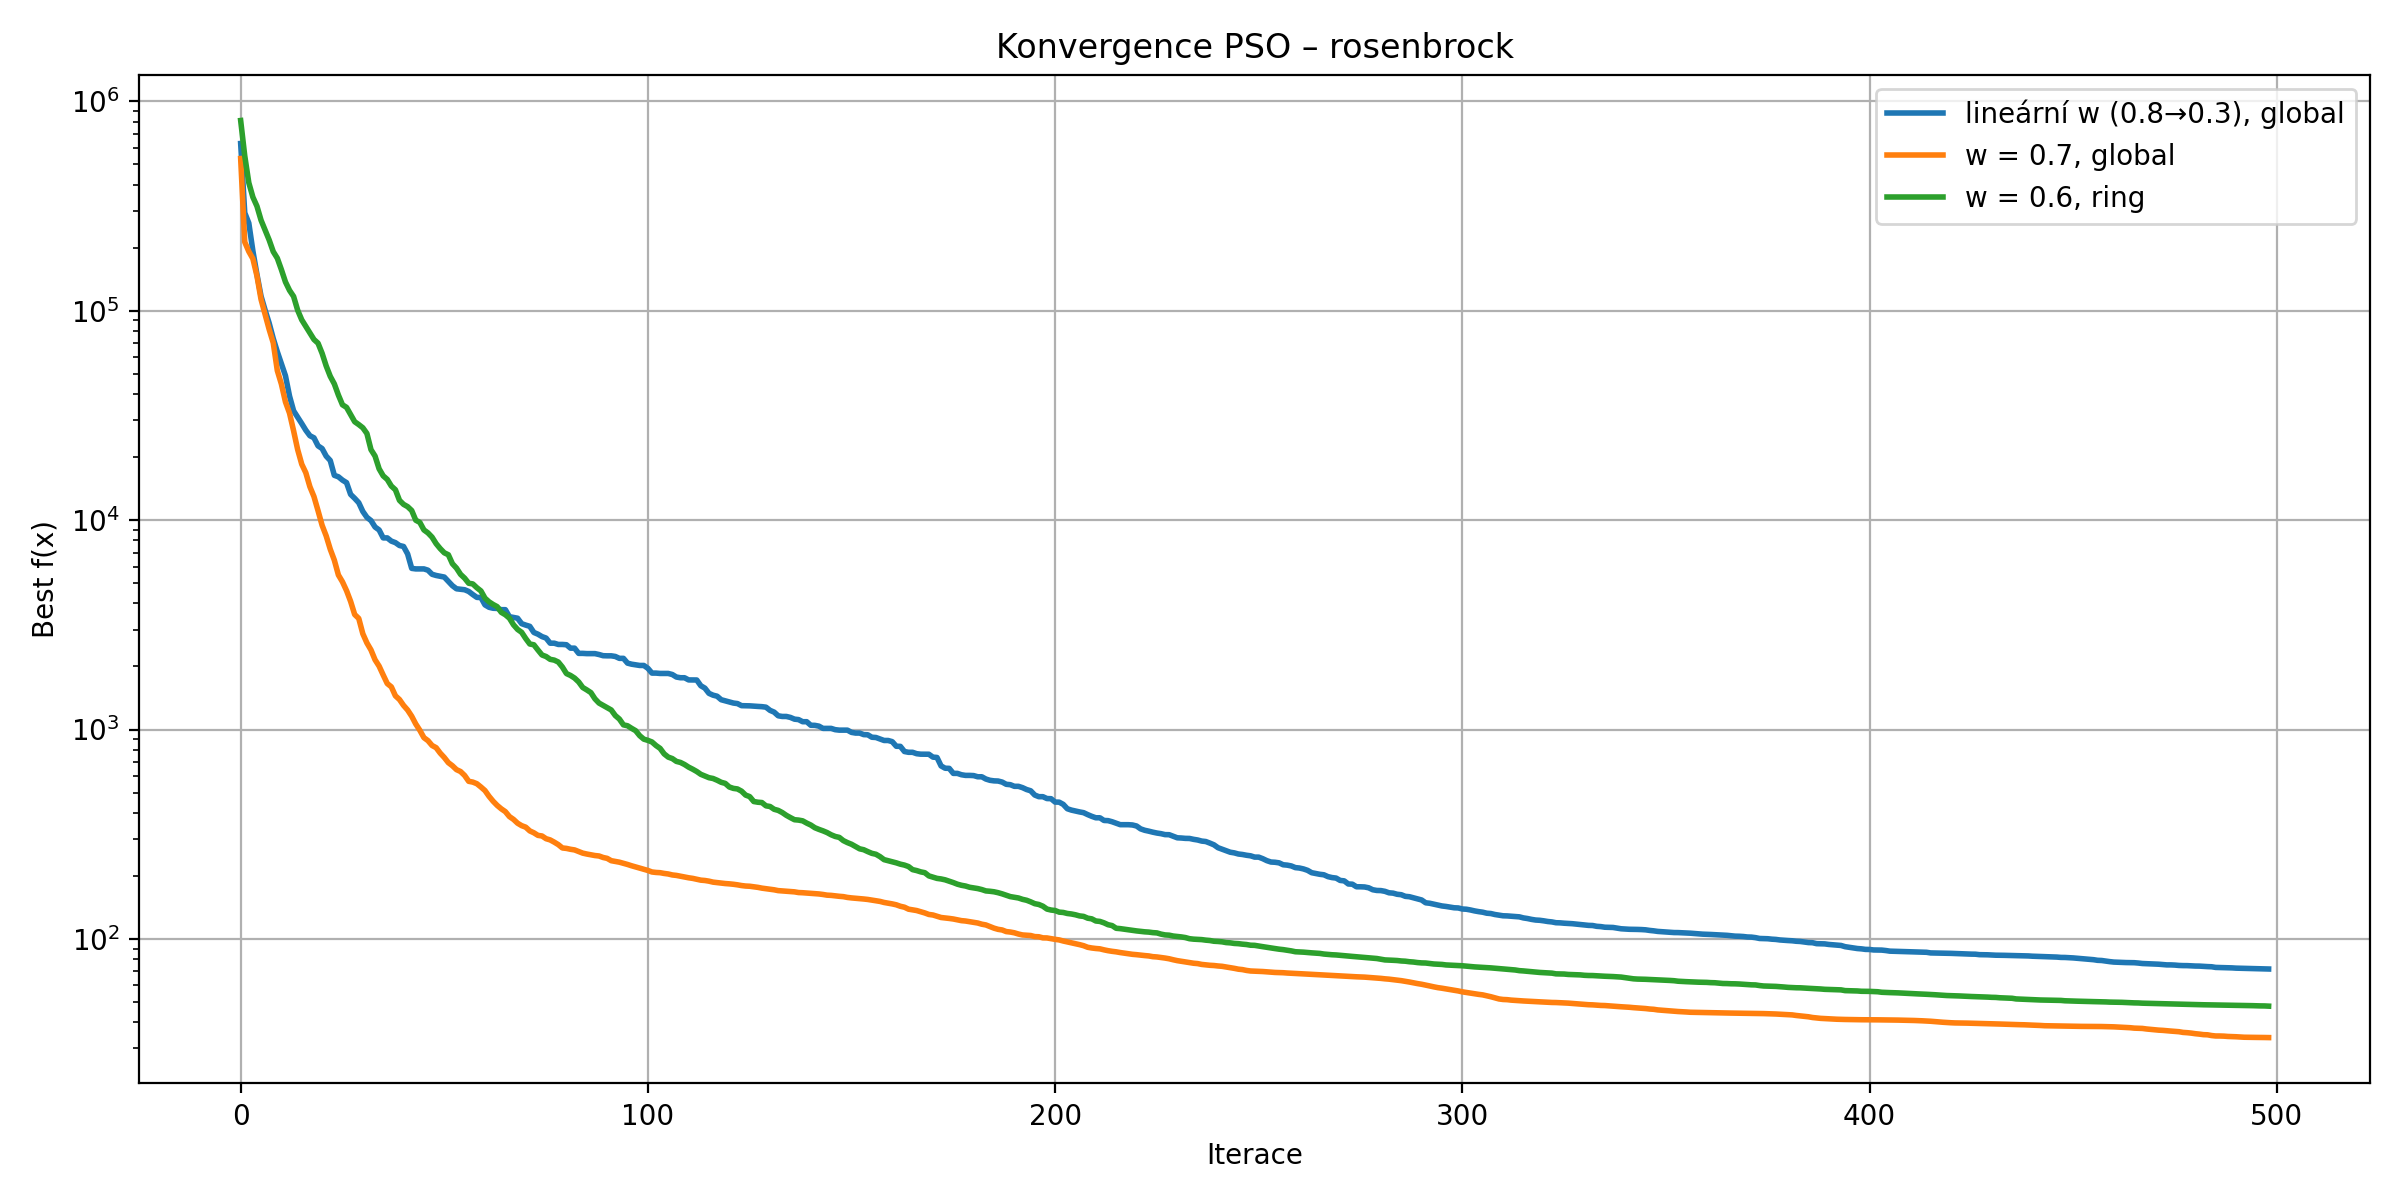
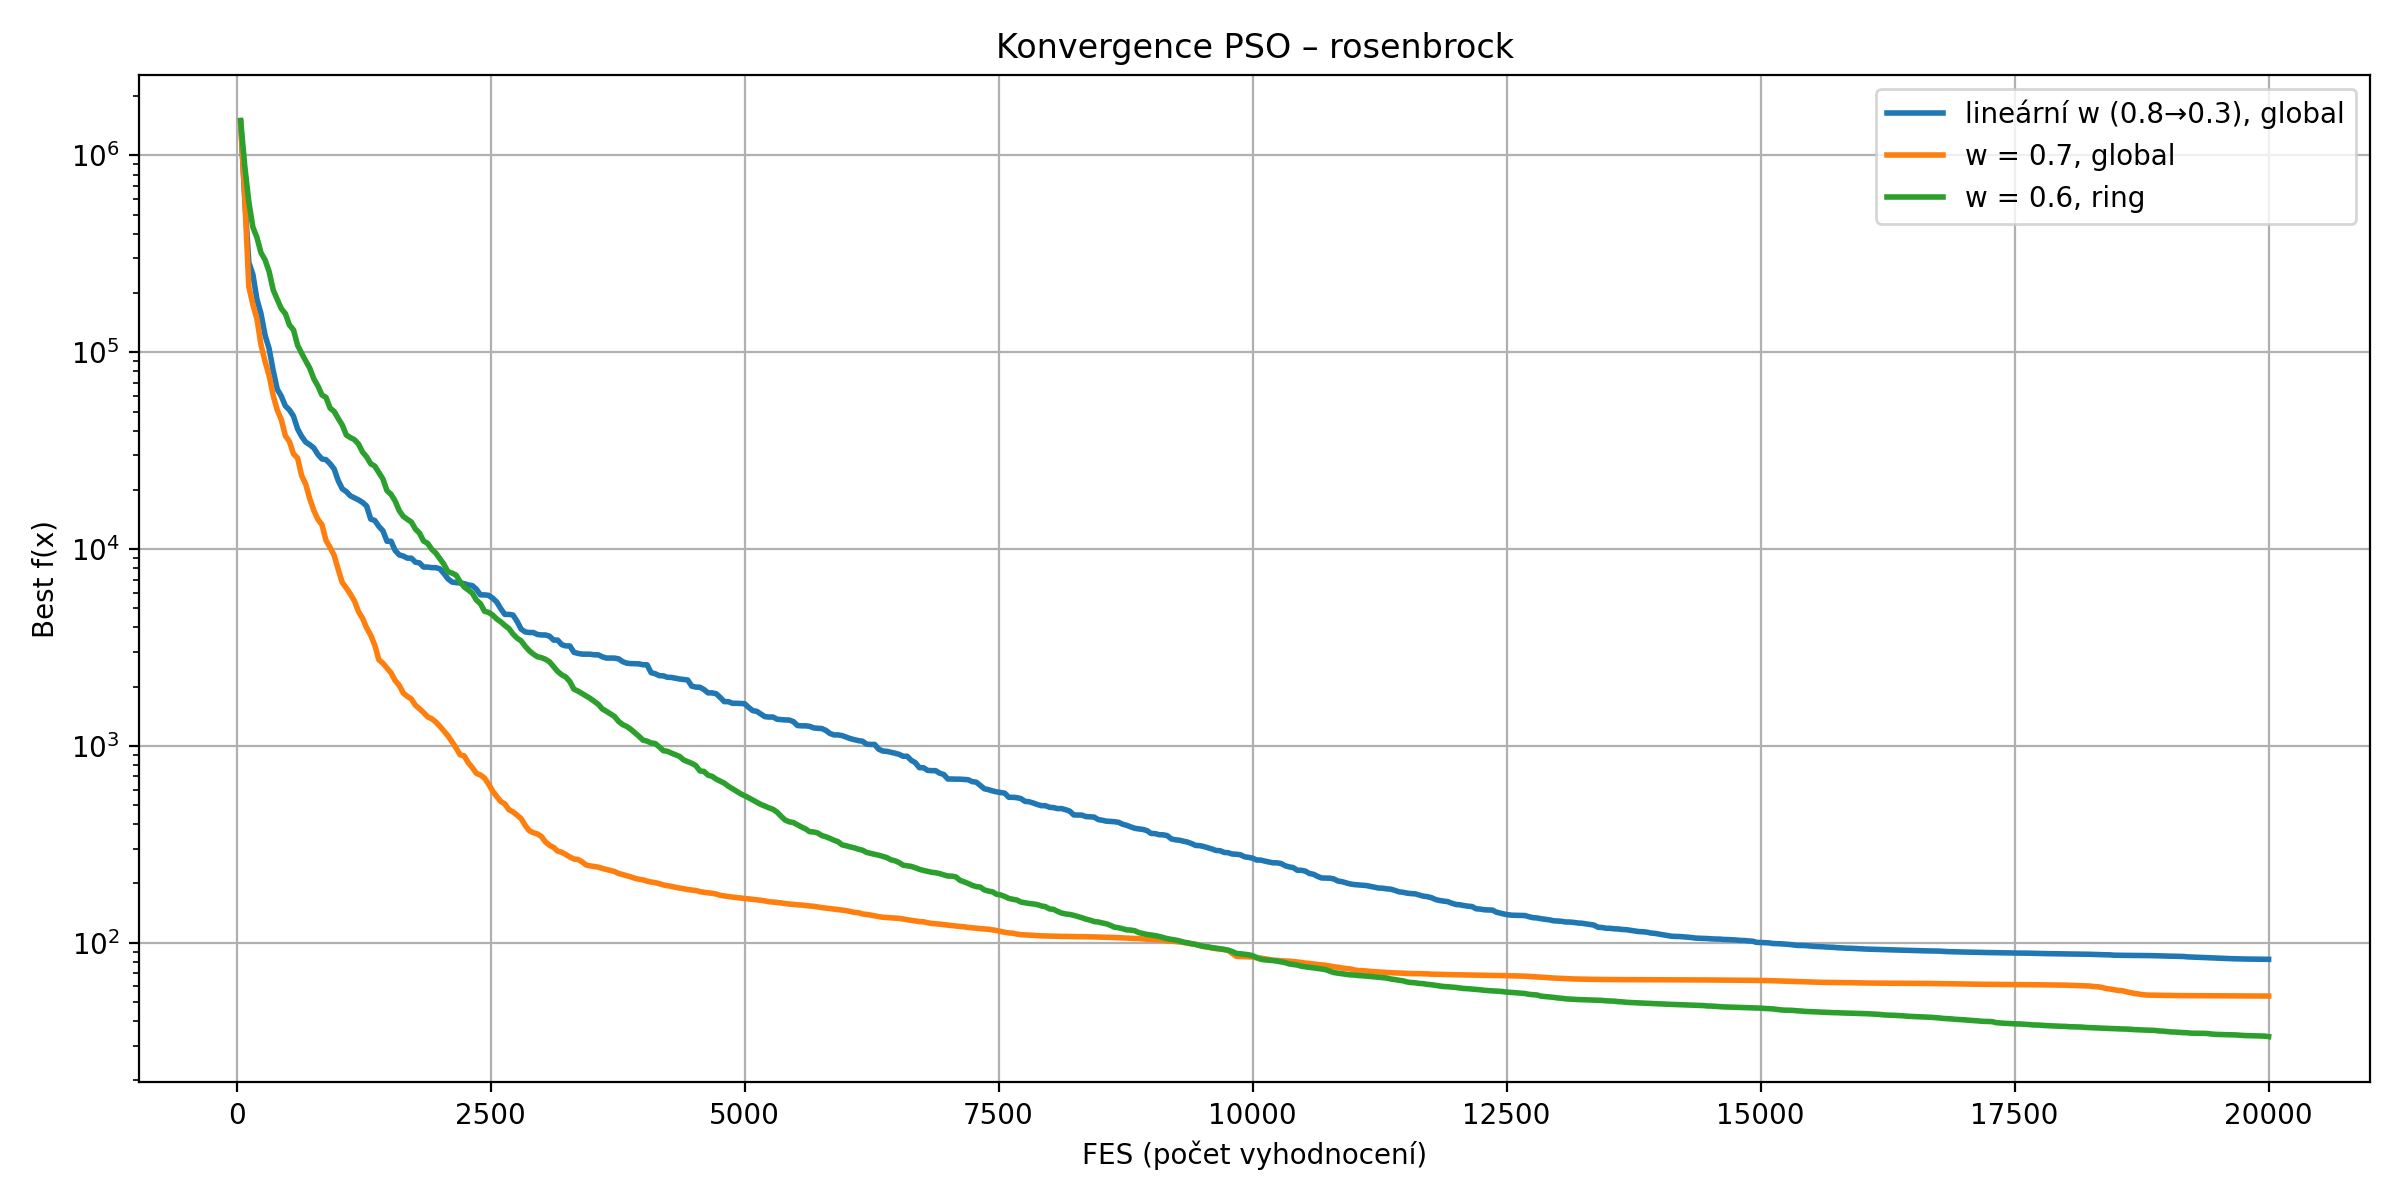
Refactor PSO implementation to remove boundary clipping and enhance evaluation statistics

diff --git a/pso/pso_core.py b/pso/pso_core.py
@@ -1,7 +1,9 @@
 import numpy as np
 
 class PSO:
-    """Particle Swarm Optimization with global/ring topology and linear/constant inertia."""
+    """Particle Swarm Optimization without boundary clipping.
+    Evaluations outside bounds return +inf. History recorded by FES.
+    """
 
     def __init__(self, func, dim, lower, upper, npop=40, max_fes=20000,
                  w_strategy="linear", w_max=0.8, w_min=0.3, w_const=0.7,
@@ -9,13 +11,15 @@ class PSO:
 
         self.func = func
         self.dim = dim
+
         self.lower = np.full(dim, lower)
         self.upper = np.full(dim, upper)
-        self.range = self.upper - self.lower
-        self.vmax = 0.2 * self.range
 
         self.npop = npop
         self.max_fes = max_fes
+
+        self.range = self.upper - self.lower
+        self.vmax = 0.2 * self.range
 
         self.w_strategy = w_strategy
         self.w_max = w_max
@@ -24,28 +28,28 @@ class PSO:
 
         self.c1 = c1
         self.c2 = c2
-
         self.topology = topology
+
         self.rng = np.random.default_rng(seed)
         self.fes = 0
 
-    def _evaluate(self, x):
-        if self.fes >= self.max_fes:
-            return np.inf
-        self.fes += 1
-        return self.func(x)
-
     def _current_w(self):
         if self.w_strategy == "linear":
-            ratio = self.fes / self.max_fes
-            return self.w_max - (self.w_max - self.w_min) * ratio
+            r = self.fes / self.max_fes
+            return self.w_max - (self.w_max - self.w_min) * r
         return self.w_const
 
-    def _apply_bounds(self, x, v):
-        mask = (x < self.lower) | (x > self.upper)
-        x = np.minimum(np.maximum(x, self.lower), self.upper)
-        v[mask] = 0
-        return x, v
+    def _evaluate(self, x):
+        """Evaluate only if inside bounds, otherwise return +inf."""
+        if self.fes >= self.max_fes:
+            return np.inf
+
+        self.fes += 1
+
+        if np.any(x < self.lower) or np.any(x > self.upper):
+            return np.inf
+
+        return self.func(x)
 
     def _apply_vmax(self, v):
         return np.clip(v, -self.vmax, self.vmax)
@@ -66,9 +70,10 @@ class PSO:
         gbest = pbest[g_idx].copy()
         gbest_val = pbest_vals[g_idx]
 
-        history = []
+        history = [(self.fes, gbest_val)]
 
         while self.fes < self.max_fes:
+
             w = self._current_w()
 
             if self.topology == "ring":
@@ -83,40 +88,39 @@ class PSO:
             V = w * V + self.c1 * r1 * (pbest - X) + self.c2 * r2 * (nbest - X)
             V = self._apply_vmax(V)
 
-            X = X + V
-            for i in range(self.npop):
-                X[i], V[i] = self._apply_bounds(X[i], V[i])
+            X = X + V  # NO boundary clipping
 
             for i in range(self.npop):
                 if self.fes >= self.max_fes:
                     break
+
                 fval = self._evaluate(X[i])
+
                 if fval < pbest_vals[i]:
                     pbest_vals[i] = fval
                     pbest[i] = X[i].copy()
+
                     if fval < gbest_val:
                         gbest_val = fval
                         gbest = X[i].copy()
 
-            history.append(gbest_val)
+            history.append((self.fes, gbest_val))
 
         return gbest, gbest_val, history
 
 
-# ----- testovací funkce -----
+# ------------------------
+#  TEST FUNCTIONS
+# ------------------------
 
 def sphere(x):
-    """Sphere test function."""
     return np.sum(x**2)
 
 def rosenbrock(x):
-    """Rosenbrock test function."""
     return np.sum(100 * (x[1:] - x[:-1]**2)**2 + (1 - x[:-1])**2)
 
 def schwefel(x):
-    """Schwefel test function."""
     return 418.9829 * len(x) - np.sum(x * np.sin(np.sqrt(np.abs(x))))
-
 
 PROBLEMS = {
     "sphere": {"fn": sphere, "bounds": (-5.12, 5.12)},
@@ -124,23 +128,21 @@ PROBLEMS = {
     "schwefel": {"fn": schwefel, "bounds": (-500, 500)},
 }
 
-
-# ----- Varianty PSO -----
+# ------------------------
+#  VARIANTS
+# ------------------------
 
 def variant_linear(func, bounds):
-    """Linear inertia, global topology."""
-    return PSO(func, dim=30, lower=bounds[0], upper=bounds[1],
+    return PSO(func, 30, bounds[0], bounds[1],
                w_strategy="linear", w_max=0.8, w_min=0.3,
                c1=2.0, c2=2.0, topology="global")
 
 def variant_const_global(func, bounds):
-    """Constant inertia (0.7), global topology."""
-    return PSO(func, dim=30, lower=bounds[0], upper=bounds[1],
+    return PSO(func, 30, bounds[0], bounds[1],
                w_strategy="const", w_const=0.7,
                c1=1.49618, c2=1.49618, topology="global")
 
 def variant_const_ring(func, bounds):
-    """Constant inertia (0.6), ring topology."""
-    return PSO(func, dim=30, lower=bounds[0], upper=bounds[1],
+    return PSO(func, 30, bounds[0], bounds[1],
                w_strategy="const", w_const=0.6,
                c1=1.49618, c2=1.49618, topology="ring")

diff --git a/pso/reporting.py b/pso/reporting.py
@@ -3,26 +3,41 @@ import matplotlib.pyplot as plt
 import os
 
 def ensure_dirs():
-    """Creates charts/ and results/ folders."""
     os.makedirs("charts", exist_ok=True)
     os.makedirs("results", exist_ok=True)
 
 def run_multiple(factory, runs=10):
-    """Runs a PSO variant multiple times and returns mean/std + raw histories."""
     histories = []
-    for _ in range(runs):
-        print(f"  Run {_ + 1}/{runs}")
-        _, _, hist = factory().run()
-        histories.append(np.array(hist))
 
-    max_len = max(len(h) for h in histories)
-    padded = [np.pad(h, (0, max_len - len(h)), constant_values=h[-1]) for h in histories]
-    data = np.vstack(padded)
-    return (data.mean(axis=0), data.std(axis=0)), histories
+    for run_num in range(runs):
+        print(f"  Spouštím běh {run_num + 1}/{runs}...")
+        _, _, hist = factory().run()
+        histories.append(hist)
+
+    max_fes = max(h[-1][0] for h in histories)
+
+    padded = []
+    for h in histories:
+        fes_vals = [t[0] for t in h]
+        best_vals = [t[1] for t in h]
+
+        if fes_vals[-1] < max_fes:
+            fes_vals.append(max_fes)
+            best_vals.append(best_vals[-1])
+
+        padded.append((np.array(fes_vals), np.array(best_vals)))
+
+    all_fes = padded[0][0]
+    all_vals = np.vstack([p[1] for p in padded])
+
+    mean_curve = np.mean(all_vals, axis=0)
+    std_curve = np.std(all_vals, axis=0)
+
+    return (all_fes, mean_curve, std_curve), histories
+
 
 def compute_stats(histories):
-    """Returns best, worst, mean, median, std."""
-    finals = np.array([h[-1] for h in histories])
+    finals = np.array([h[-1][1] for h in histories])
     return {
         "best": float(finals.min()),
         "worst": float(finals.max()),
@@ -31,14 +46,15 @@ def compute_stats(histories):
         "std": float(finals.std()),
     }
 
+
 def plot_convergence(curves, title, save_as):
-    """Plots convergence curves."""
     plt.figure(figsize=(12, 6))
-    for mean_curve, label in curves:
-        plt.plot(mean_curve, linewidth=2, label=label)
+
+    for fes, mean_curve, label in curves:
+        plt.plot(fes, mean_curve, linewidth=2, label=label)
 
     plt.yscale("log")
-    plt.xlabel("Iterace")
+    plt.xlabel("FES (počet vyhodnocení)")
     plt.ylabel("Best f(x)")
     plt.title(title)
     plt.grid(True)
@@ -47,8 +63,8 @@ def plot_convergence(curves, title, save_as):
     plt.savefig(save_as, dpi=200)
     plt.close()
 
+
 def save_markdown(problem_name, stats):
-    """Creates markdown file with bolded best variant."""
     path = f"results/{problem_name}_results.md"
     best_variant = min(stats, key=lambda k: stats[k]["best"])
 
@@ -60,10 +76,16 @@ def save_markdown(problem_name, stats):
 
     for name, s in stats.items():
         if name == best_variant:
-            l = f"| **{name}** | **{s['best']:.6e}** | **{s['worst']:.6e}** | **{s['mean']:.6e}** | **{s['median']:.6e}** | **{s['std']:.6e}** |"
+            line = (
+                f"| **{name}** | **{s['best']:.6e}** | **{s['worst']:.6e}** | "
+                f"**{s['mean']:.6e}** | **{s['median']:.6e}** | **{s['std']:.6e}** |"
+            )
         else:
-            l = f"| {name} | {s['best']:.6e} | {s['worst']:.6e} | {s['mean']:.6e} | {s['median']:.6e} | {s['std']:.6e} |"
-        lines.append(l)
+            line = (
+                f"| {name} | {s['best']:.6e} | {s['worst']:.6e} | "
+                f"{s['mean']:.6e} | {s['median']:.6e} | {s['std']:.6e} |"
+            )
+        lines.append(line)
 
     with open(path, "w", encoding="utf-8") as f:
         f.write("\n".join(lines))

diff --git a/pso/main.py b/pso/main.py
@@ -12,27 +12,34 @@ if __name__ == "__main__":
 
         print("Spouštím varianty PSO...")
         print("  Lineární w (0.8→0.3), global")
-        (mean1, _), hist1 = run_multiple(lambda: variant_linear(func, bounds))
+        (fes1, mean1, std1), hist1 = run_multiple(lambda: variant_linear(func, bounds))
 
         print("  Konstantní w = 0.7, global")
-        (mean2, _), hist2 = run_multiple(lambda: variant_const_global(func, bounds))
+        (fes2, mean2, std2), hist2 = run_multiple(lambda: variant_const_global(func, bounds))
 
         print("  Konstantní w = 0.6, ring")
-        (mean3, _), hist3 = run_multiple(lambda: variant_const_ring(func, bounds))
+        (fes3, mean3, std3), hist3 = run_multiple(lambda: variant_const_ring(func, bounds))
 
         curves = [
-            (mean1, "lineární w (0.8→0.3), global"),
-            (mean2, "w = 0.7, global"),
-            (mean3, "w = 0.6, ring"),
+            (fes1, mean1, "lineární w (0.8→0.3), global"),
+            (fes2, mean2, "w = 0.7, global"),
+            (fes3, mean3, "w = 0.6, ring"),
         ]
 
-        plot_convergence(curves, f"Konvergence PSO – {name}", f"charts/{name}.png")
+        plot_convergence(
+            curves,
+            title=f"Konvergence PSO – {name}",
+            save_as=f"charts/{name}.png",
+        )
 
+        # statistiky finálních hodnot
         stats = {
             "lineární w (0.8→0.3) – global": compute_stats(hist1),
             "w = 0.7 – global": compute_stats(hist2),
             "w = 0.6 – ring": compute_stats(hist3),
         }
+
+        save_markdown(name, stats)
 
         save_markdown(name, stats)
         print(f"  Výsledky uloženy pro problém: {name}\n")

diff --git a/pso/results/rosenbrock_results.md b/pso/results/rosenbrock_results.md
@@ -2,6 +2,6 @@
 
 | Varianta | Best | Worst | Mean | Median | Std |
 |----------|------|-------|------|--------|------|
-| lineární w (0.8→0.3) – global | 2.698724e+01 | 1.398901e+02 | 7.184747e+01 | 7.852437e+01 | 3.383196e+01 |
-| w = 0.7 – global | 5.602839e+00 | 7.775462e+01 | 3.379981e+01 | 2.639522e+01 | 2.262980e+01 |
-| **w = 0.6 – ring** | **2.506728e+00** | **1.415775e+02** | **4.776014e+01** | **4.496724e+01** | **4.420035e+01** |
+| lineární w (0.8→0.3) – global | 2.230398e+01 | 2.135381e+02 | 8.233964e+01 | 7.976434e+01 | 6.208948e+01 |
+| w = 0.7 – global | 1.551960e+01 | 8.092413e+01 | 5.357909e+01 | 7.259309e+01 | 2.759700e+01 |
+| **w = 0.6 – ring** | **2.969844e+00** | **7.290655e+01** | **3.332894e+01** | **2.231077e+01** | **2.828673e+01** |

diff --git a/pso/results/schwefel_results.md b/pso/results/schwefel_results.md
@@ -2,6 +2,6 @@
 
 | Varianta | Best | Worst | Mean | Median | Std |
 |----------|------|-------|------|--------|------|
-| **lineární w (0.8→0.3) – global** | **2.903537e+03** | **5.433110e+03** | **3.950219e+03** | **3.911570e+03** | **6.990780e+02** |
-| w = 0.7 – global | 3.336084e+03 | 6.121119e+03 | 4.664569e+03 | 4.513648e+03 | 8.980272e+02 |
-| w = 0.6 – ring | 3.813326e+03 | 5.313214e+03 | 4.901484e+03 | 5.045657e+03 | 4.135127e+02 |
+| **lineární w (0.8→0.3) – global** | **3.296770e+03** | **5.290366e+03** | **4.220529e+03** | **4.224579e+03** | **5.720900e+02** |
+| w = 0.7 – global | 4.224607e+03 | 5.922164e+03 | 5.138693e+03 | 5.251288e+03 | 5.214974e+02 |
+| w = 0.6 – ring | 4.138738e+03 | 5.695368e+03 | 4.961967e+03 | 4.964648e+03 | 4.280618e+02 |

diff --git a/pso/results/sphere_results.md b/pso/results/sphere_results.md
@@ -2,6 +2,6 @@
 
 | Varianta | Best | Worst | Mean | Median | Std |
 |----------|------|-------|------|--------|------|
-| lineární w (0.8→0.3) – global | 5.864500e-07 | 1.755876e-05 | 4.217092e-06 | 1.503929e-06 | 5.394013e-06 |
-| **w = 0.7 – global** | **9.534390e-12** | **1.954348e-10** | **6.481594e-11** | **5.178048e-11** | **5.822667e-11** |
-| w = 0.6 – ring | 4.708707e-08 | 3.643971e-07 | 1.133293e-07 | 9.148477e-08 | 8.915055e-08 |
+| lineární w (0.8→0.3) – global | 1.637713e-07 | 8.496366e-06 | 2.554926e-06 | 1.886138e-06 | 2.219346e-06 |
+| **w = 0.7 – global** | **3.423642e-12** | **2.630296e-08** | **3.383518e-09** | **3.667604e-10** | **7.710990e-09** |
+| w = 0.6 – ring | 3.308520e-08 | 1.184320e-07 | 7.404316e-08 | 6.459823e-08 | 2.966174e-08 |
